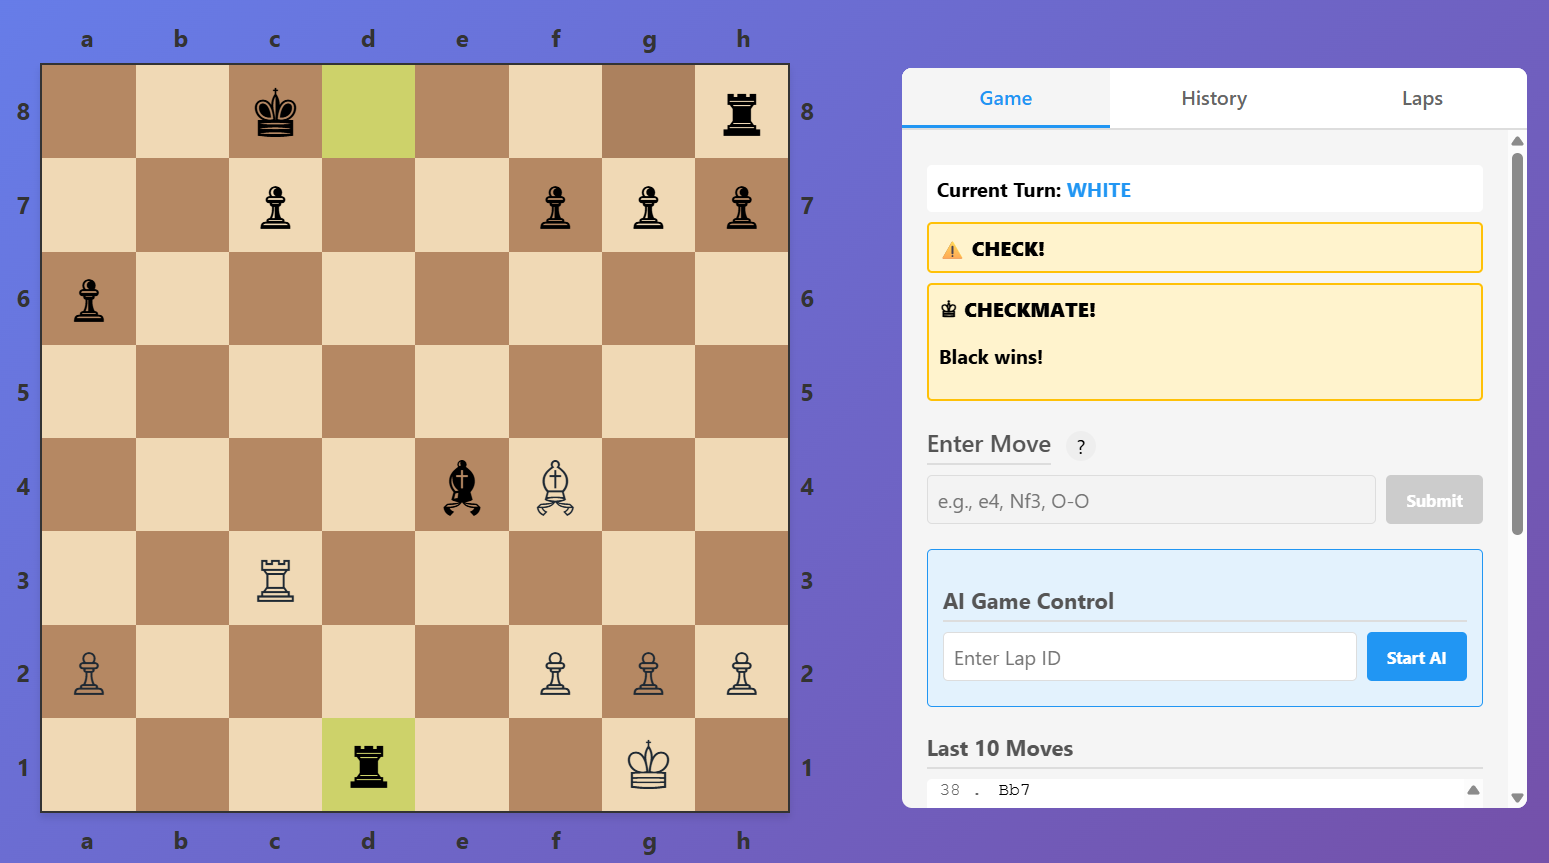
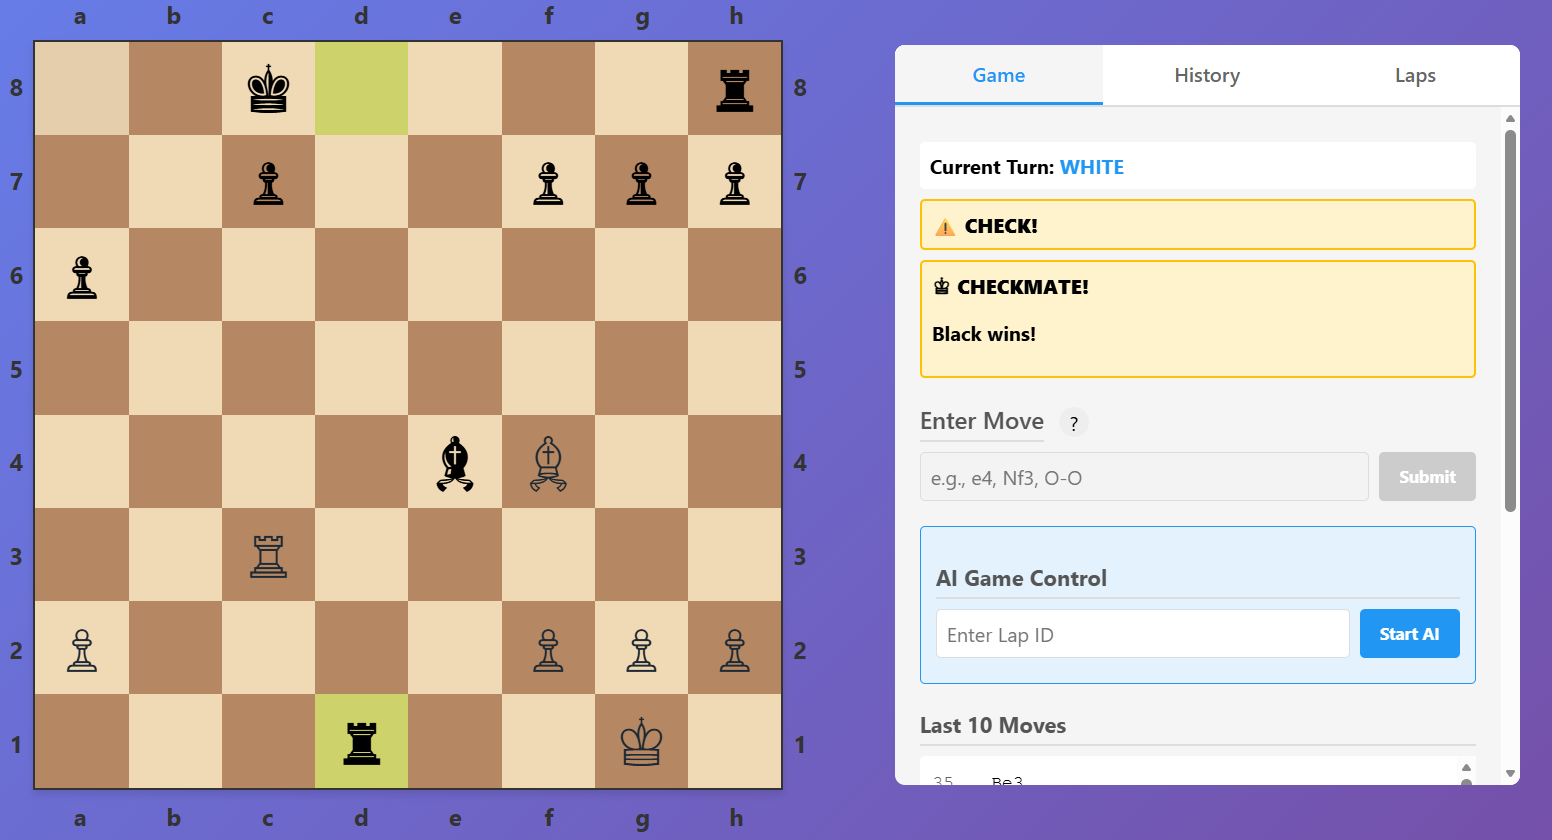
fix: inverse colors of squares

diff --git a/ui/src/app/components/game-info/game-info.component.ts b/ui/src/app/components/game-info/game-info.component.ts
@@ -105,7 +105,7 @@ export class GameInfoComponent implements OnDestroy {
 
     console.log('📡 Creating replay subscription in GameInfoComponent for lapId:', lapId);
 
-    this.replaySubscription = this.sseService.replayLap(lapId, 1500).subscribe({
+    this.replaySubscription = this.sseService.replayLap(lapId, 2000).subscribe({
       next: (moveEvent) => {
         console.log('✅ Replay move received in GameInfoComponent:', moveEvent);
 

diff --git a/ui/src/app/components/chess-board/chess-board.component.ts b/ui/src/app/components/chess-board/chess-board.component.ts
@@ -44,7 +44,7 @@ export class ChessBoardComponent {
   }
 
   isLightSquare(row: number, col: number): boolean {
-    return (row + col) % 2 !== 0;
+    return (row + col) % 2 === 0;
   }
 
   isSquareSelected(row: number, col: number): boolean {
